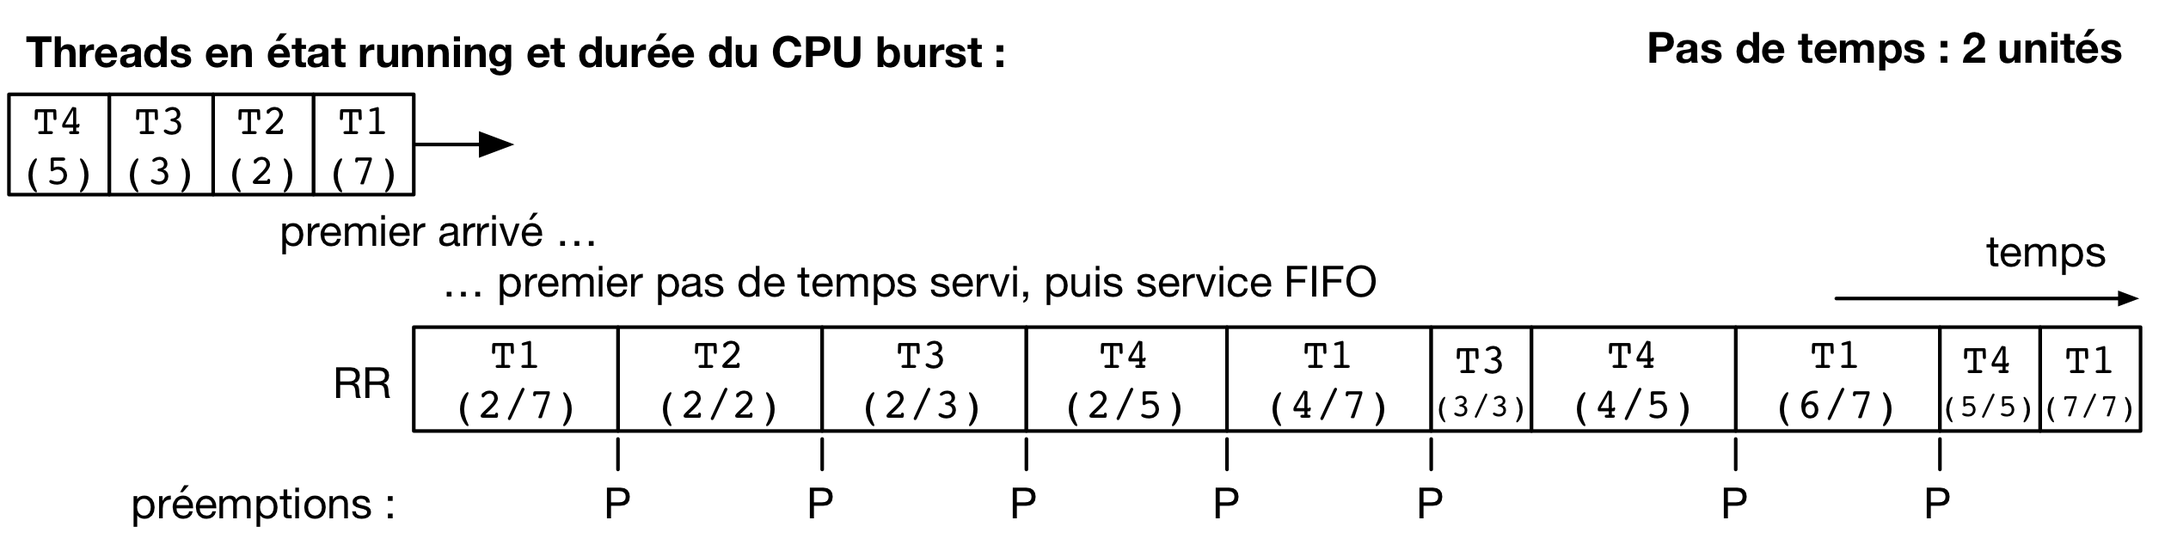
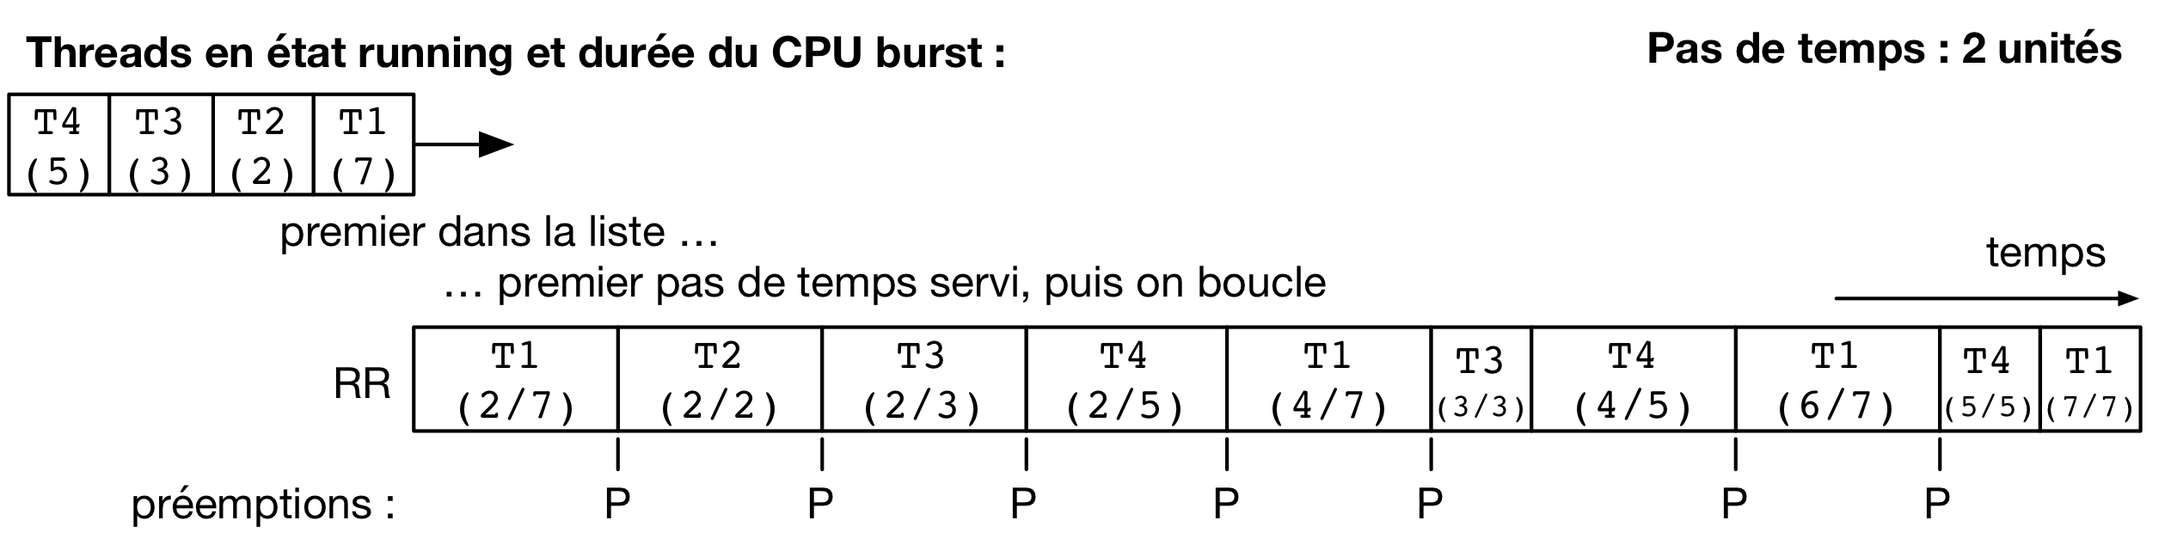
various fixes

Changed region(s): [[0.5251, 0.468, 0.6487, 0.5616], [0.1853, 0.4056, 0.3089, 0.468]]

diff --git a/Theorie/Ordonnancement/scheduling.rst b/Theorie/Ordonnancement/scheduling.rst
@@ -10,14 +10,14 @@ Ordonnancement (Scheduling)
 
 Nous avons vu dans le chapitre précédent qu'un système d'exploitation comme Linux pouvait supporter de nombreux threads (appartenant à divers processus) avec un nombre limité (ou même unique) de processeur(s).
 Un processeur n'exécute pourtant qu'un seul thread à la fois.
-Le partage des processeurs est rendu possible par un mécanisme *partage de temps* : le système d'exploitation peut basculer de l'utilisation d'un processeur par un thread a une utilisation par un autre thread.
-L'enchaînement rapide de l'exécution des différents threads sur les processeurs donne ainsi l'illusion à l'utilisateur que ceux-ci s'exécutent simultanément.
+Le partage des processeurs est rendu possible par un mécanisme de *partage de temps* : le système d'exploitation peut basculer de l'utilisation d'un processeur par un thread à une utilisation par un autre thread.
+L'enchaînement rapide de l'exécution des différents threads sur les processeurs donne l'illusion à l'utilisateur que ceux-ci s'exécutent simultanément.
 Le mécanisme permettant le partage de temps est le changement de contexte.
 Nous l'avons décrit dans les chapitres précédents.
 
 La mise en œuvre du partage de temps illustre bien le principe de séparation entre mécanisme et politique, un objectif important poursuivi lors de la conception d'UNIX et de Linux.
-Le *mécanisme* de changement de contexte permet en effet d'assurer la transition entre les threads sur un ou plusieurs processeur(s), mais il ne dit pas quel thread doit être privilégié pour obtenir un processeur, ou quand un thread utilisant un processeur doit le libérer pour un autre thread.
-Ces décisions sont du ressort de la *politique* d'ordonnancement (scheduler).
+Le *mécanisme* de changement de contexte permet en effet d'assurer la transition entre les threads sur un ou plusieurs processeur(s), mais il ne dit pas quel thread doit être privilégié pour obtenir un processeur, ou quand un thread utilisant un processeur doit le libérer pour laisser la place à un autre thread.
+Ces décisions sont du ressort de la *politique* d'ordonnancement ou **scheduler**.
 L'avantage de séparer les décisions sur l'accès aux processeurs pour les différents threads, du mécanisme permettant d'acter ces décisions, est sa grande flexibilité.
 Un même mécanisme peut être utilisé avec des politiques différentes sur des systèmes aussi dissemblables qu'un super-calculateur ou une montre connectée, pour prendre des exemples de systèmes utilisant le noyau Linux.
 
@@ -39,19 +39,19 @@ Ceci est illustré par la figure suivante.
     :scale: 20
 
 Dans cet exemple, une application de copie de fichier comme `cp(1)`_ effectue de nombreuses opérations d'entrée/sortie pour lire et écrire un fichier à copier en utilisant le système de fichiers, entremêlées de bursts CPU courts.
-Une application de calcul numérique présentera, au contraire, des bursts CPU très longs avec des entrée/sorties seulement au début et à la fin du calcul.
+Une application de calcul numérique présentera, au contraire, des bursts CPU très longs avec des entrée/sorties seulement au début et à la fin des calculs.
 
 Un application peut tout à fait être composée de plusieurs threads présentant des caractéristiques différentes.
 Par exemple, dans un jeu, le thread chargé de prendre en compte les commandes du joueur (à l'aide du clavier ou d'une manette) présentera souvent des bursts CPU courts et de longues périodes d'attente, tandis que le thread en charge de l'intelligence artificielle du jeu pourra avoir des bursts CPU périodiques mais de durée régulière.
 Enfin, le thread en charge de l'affichage pourrait utiliser des bursts CPU longs pour préparer la visualisation d'une scène suivie de son envoi au dispositif d'affichage.
 
-L'alternance entre les bursts CPU et les phases attentes est mise en œuvre par l'alternance de chaque thread entre différents états, permis par l'utilisation par le kernel de changements de contextes.
+L'alternance entre les bursts CPU et les phases d'attente est mise en œuvre par l'alternance de chaque thread entre différents états, permis par le mécanisme de changement de contexte.
 
-Etats des threads
-^^^^^^^^^^^^^^^^^
+Évolution de l'état des threads
+^^^^^^^^^^^^^^^^^^^^^^^^^^^^^^^
 
 Le kernel maintient des structures de données à propos de tous les threads actifs.
-Comme nous l'avons vu précédemment, un thread peut être dans un des trois états suivants :
+Comme nous l'avons vu précédemment, un thread peut être dans l'un des trois états suivants :
 
 - **Running** : ce thread est *en ce moment* en train d'utiliser un des processeurs pour exécuter des instructions ;
 - **Ready** : ce thread est *en attente* d'un processeur pour exécuter des instructions ;
@@ -67,19 +67,18 @@ Passage de l'état Running à l'état Blocked
 """"""""""""""""""""""""""""""""""""""""""
 
 Le passage de l'état Running à l'état Blocked advient lors de l'exécution d'un appel système bloquant appelé par le thread.
-Cet appel système bloquant peut être, par exemple, une demande d'entrée/sortie (écrire ou lire depuis le système de fichiers) ou un appel à une primitive de synchronisation comme par exemple ``lock()`` sur un mutex ou ``sem_wait()`` sur un sémaphore.
-
+Cet appel système bloquant peut être, par exemple, une demande d'entrée/sortie (écrire ou lire depuis le système de fichiers) ou un appel à une primitive de synchronisation comme par exemple `pthread_mutex_lock(3posix)`_ ou `sem_wait(3posix)`_.
 Les threads en état Blocked sont associés à une structure de donnée du noyau, qui joue le rôle de *salle d'attente*.
 Certaines de ces structures d'attente n'ont d'utilité que pour un seul thread, par exemple lorsque ce thread a demandé une lecture vers le système de fichiers.
 D'autres peuvent contenir plusieurs threads en attente.
-C'est le cas, par exemple, d'une structure d'attente pour un sémaphore S.
-Il peut y avoir effectivement plusieurs threads ayant appelé ``sem_wait()`` (T12, T4 et T10).
-Un appel à ``sem_post()`` va libérer l'un de ces threads, qui passera alors en état Ready.
+C'est le cas, par exemple, d'une structure d'attente pour un sémaphore.
+Il peut y avoir effectivement plusieurs threads ayant appelé `sem_wait(3posix)`_ (T12, T4 et T10).
+Un appel à `sem_post(3posix)`_ va libérer l'un de ces threads, qui passera alors en état Ready.
 
 .. note:: Pas de garantie d'ordre sur le passage de l'état Blocked à l'état Ready !
 
  De manière générale, on ne peut pas faire d'hypothèse sur l'ordre dans lequel les threads en attente dans une structure d'attente commune vont être sélectionné pour passer dans l'état Ready, lorsque la condition d'attente sera remplie.
- Par exemple, si plusieurs threads appelent ``sem_wait()`` sur le même sémaphore S dans un ordre donné, par exemple T12, puis T4, puis T10, il n'y a pas de garantie que lors des appels à ``sem_post()`` par d'autres threads ils passent en état Ready dans ce même ordre : le premier appel à ``sem_post()`` peut tout à fait passer T4 ou T10 en mode Ready avant T12.
+ Par exemple, si plusieurs threads appelent `sem_wait(3posix)`_ sur le même sémaphore S dans un ordre donné, par exemple T12, puis T4, puis T10, il n'y a pas de garantie que lors des appels à `sem_post(3posix)`_ par d'autres threads ceux-ci passent en état Ready dans ce même ordre : le premier appel à `sem_post(3posix)`_ peut tout à fait passer T4 ou T10 en mode Ready avant T12.
 
 Passage de l'état Running à l'état Ready
 """"""""""""""""""""""""""""""""""""""""
@@ -95,7 +94,7 @@ Par ailleurs, sans même considérer des boucles infinies, le temps d'occupation
 .. Il faut utiliser pour cela la fonction `pthread_yield(3)`_ qui utilise elle même l'appel système `sched_yield(2)`_.
 .. En pratique, un thread qui doit attendre la fin de l'exécution d'autres threads et donc leur permettre d'obtenir le processeur qu'il occupe utilisera plutôt l'appel `pthread_join(3)`_ (ou `sleep(3)`_ pour attendre une durée précise).
 
-Les systèmes comme Linux utilisent donc une source d'interruption matérielle périodique (une horloge) pour permettre de redonner le contrôle au système d'exploitation périodiquement.
+Les systèmes comme Linux utilisent donc une source d'interruption matérielle périodique (une horloge système) pour permettre de redonner le contrôle au système d'exploitation.
 À l'occasion de ces traitements d'interruption, il est possible de reprendre un processeur à un thread en état Running, en provoquant un changement de contexte.
 On dit alors que le thread a subit une **préemption**.
 C'est le cas de T15 sur notre exemple.
@@ -111,9 +110,9 @@ Mise en œuvre du scheduler
 La politique d'ordonnancement, que nous appellerons par la suite uniquement le *scheduler* par simplicité, est donc en charge de la prise de décision aux deux moments suivants :
 
 - (1) Lorsqu'un processeur devient disponible, suite au passage d'un thread en mode Blocked, le scheduler doit sélectionner un thread dans l'état Ready et le promouvoir à l'état Running sur ce processeur.
-- (2) Lorsqu'une interruption périodique est traité, le scheduler doit décider si un thread actuellement en état Running doit être pré-empté pour passer en état Ready.
+- (2) Lorsqu'une interruption périodique est traité, le scheduler doit décider si un thread actuellement en état Running doit être préempté pour passer en état Ready.
 
-Un scheduler qui prend des décisions pour les deux occasions (1) et (2) est dit préemptif (car il utilise la préemption d'un thread pour récupérer le processeur avant la fin du CPU burst).
+Un scheduler qui prend des décisions pour les deux occasions (1) et (2) est dit préemptif (car il utilise la préemption d'un thread pour récupérer le processeur avant la fin de son CPU burst).
 Un scheduler qui ne prend de décision que lors de l'occasion (1) est non-préemptif.
 Il dépend d'appels réguliers par les threads à des appels systèmes bloquants, mais les threads ont la garantie que leurs CPU burst ne seront pas interrompus.
 
@@ -121,14 +120,14 @@ Objectifs
 """""""""
 
 Il n'existe pas de scheduler parfait convenant à toutes les applications.
-Pour s'en convaincre, considérons les deux applications que sont la copie de fichier et l'application de calcul de notre exemple précédent.
+Pour s'en convaincre, considérons les deux applications que sont la copie de fichier et l'application de calcul dans notre exemple précédent.
 
-La priorité de l'application de copie de fichier est de subir le moins d'attente possible entre la disponibilité d'une valeur de retour d'un appel système vers le système de fichier, et l'envoi du prochain appel système pour continuer la copie, et éviter de ralentir l'opération de copie.
+La priorité de l'application de copie de fichier est de subir le moins d'attente possible entre la disponibilité d'une valeur de retour d'un appel système vers le système de fichier, et l'envoi du prochain appel système pour continuer la copie, et éviter de ralentir l'opération de copie dans son ensemble.
 Pour ce thread, le délai d'attente entre sa mise en état Ready et l'obtention d'un processeur doit être la plus faible possible.
 
 Pour l'application de calcul, le plus important est de pouvoir exécuter les instructions du long CPU burst avec le moins d'interruptions possibles.
-En effet, un changement de contexte est du temps perdu pour réaliser des opérations utiles (progresser dans la simulation).
-Par ailleurs, un thread qui est interrompu et replacé plus tard sur le processeur sera soumis à un phénomène de *cache froid* : les données qui étaient dans le cache, et donc accessibles rapidement avant le changement de contexte, ont pu être remplacées par des données utilisées par le thread qui a obtenu le processeur entre temps.
+En effet, un changement de contexte est du temps perdu pour réaliser des opérations utiles (i.e., progresser dans la simulation).
+Par ailleurs, un thread qui est interrompu et replacé plus tard sur le processeur sera soumis à un phénomène de *cache froid* : les données qui étaient dans le cache, et donc accessibles avec un temps d'accès faible avant le changement de contexte, ont pu être remplacées par des données à des adresses différentes, utilisées par le thread qui a obtenu le processeur entre temps.
 Peupler de nouveau le cache avec les données nécessaire au calcul peut nécessiter de coûteux accès en mémoire principale et ralentir l'exécution.
 
 Si l'on décide de privilégier l'application de copie, il est souhaitable d'interrompre le thread de l'application de calcul, mais cela va au détriment de ce dernier.
@@ -140,32 +139,34 @@ On peut définir cinq principaux critères pour mesurer la performance d'un sche
  - On veut pouvoir maximimiser l'utilisation du ou des processeur(s), c'est à dire la proportion du temps où ceux-ci exécutent des instructions des applications. Les opérations de changement de contexte ne sont évidemment pas considérées comme du travail utile pour ce critère.
  - On peut vouloir maximiser le débit applicatif, c'est à dire le nombre de processus qui peuvent terminer leur exécution en une unité de temps donné (par exemple en une heure).
 - D'autres critères sont applicables, cette fois-ci **du point de vue de chaque application** individuellement. On pourra par ailleurs s'intéresser à la distribution de ces métriques pour l'ensemble des applications, afin de savoir s'il existe un déséquilibre entre la métrique telle que perçue par une application et la même métrique perçue par une autre application :
- - Une application peut souhaiter minimiser son temps total d'exécution, entre la création du processus et sa terminaison. Ce critère n'est pas nécessairement valide pour tous les types d'applications, par exemple il n'a que peu de sens pour une application interactive (par exemple, un shell).
- - Enfin, une application peut souhaiter minimiser son temps d'attente moyen, c'est à dire le temps écoulé entre la mise en état Ready (par exemple après la fin d'une entrée/sortie) et l'obtention d'un processeur. Cette métrique est particulièrement importante pour les applications interactives, comme un jeu ou une interface utilisateur en mode graphique.
+ - Une application peut souhaiter minimiser son temps total d'exécution, entre la création du processus et sa terminaison. Ce critère n'est pas nécessairement valide pour tous les types d'applications, par exemple il n'a que peu de sens pour une application interactive (par exemple, un shell), mais il est important pour des applications de calcul ou l'exécution d'un script par exemple.
+ - Ensuite, une application peut souhaiter minimiser le temps d'attente moyen, c'est à dire le temps écoulé entre la mise en état Ready (par exemple après la fin d'une entrée/sortie) et l'obtention d'un processeur. Cette métrique est particulièrement importante pour les applications interactives, comme un jeu ou une interface graphique.
+ - Enfin, une application voudra minimiser son temps de réponse, qui correspond à la somme entre le temps d'attente et le temps nécessaire pour terminer l'exécution de son burst CPU.
 
 Nous allons dans la suite de ce chapitre décrire plusieurs scheduler classiques, en commençant par les scheduler non préemptifs, puis les schedulers préemptifs, et enfin les schedulers hybrides combinant plusieurs stratégies.
 
-**Note :** Nous considérerons pour la présentation des scheduler uniquement le cas d'un seul processeur pour la simplicité, mais les algorithmes présentés ici peuvent être aisément étendu pour fonctionner avec plusieurs processeurs.
+**Note :** Nous considérerons pour la présentation des schedulers uniquement le cas d'un seul processeur pour des raisons de simplicité, mais les algorithmes présentés ici peuvent être aisément étendu pour fonctionner avec plusieurs processeurs.
 
 Le scheduler FCFS (First-Come-First-Serve)
 """"""""""""""""""""""""""""""""""""""""""
 
 Une première approche est d'exécuter les CPU bursts des threads dans l'ordre exact dans lequel ils ont obtenu l'état Ready (premier arrivé, premier servi).
 Ce scheduler n'étant pas préemptif, chaque CPU burst s'exécute intégralement avant de libérer le processeur pour un autre thread.
-L'exemple ci-dessous montre deux exécutions possibles pour 4 threads disponibles en état Ready simultanément, mais pour lesquels l'ordre d'ajout en état Ready a été sérialisé de façon différente (T1, T2, T3, puis T4 dans un premier cas; et T2, T3, T4 puis T1 dans le deuxième cas).
+Le temps de réponse avec un scheduler non préemptif est toujours égal au temps d'attente plus la durée du burst CPU, donc nous nous intéresserons principalement à ce premier critère.
+
+L'exemple ci-dessous montre deux exécutions possibles pour 4 threads disponibles en état Ready simultanément, mais pour lesquels l'ordre d'ajout en état Ready a été effectué dans un ordre différent (T1, T2, T3, puis T4 dans un premier cas; et T2, T3, T4 puis T1 dans le deuxième cas).
 
  .. figure:: figures/scheduler_fcfs.png
     :align: center
     :scale: 20
 
 Ces figures présentent des diagrammes de Gantt, où le temps d'exécution de chaque CPU burst est représenté au cours du temps.
-En terme de débit applicatif et d'utilisation du processeur, cet algorithme est optimal, car il n'y a que trois changements de contexte.
-Le temps perdu est donc minimal.
+En terme de débit applicatif et d'utilisation du processeur, cet algorithme est optimal, car il n'y a que trois changements de contexte : le temps perdu pour ces changements de contexte est donc minimal.
 
 En revanche, si on considère le temps d'attente moyen pour chacun des threads, on observe que celui-ci diffère grandement entre le premier ordre d'arrivée et le second (de 7 unités de temps à 4.75 unités de temps).
 La raison est que dans la première configuration des CPU bursts courts (typiques des applications interactives ou utilisant de nombreuses entrées/sorties) se retrouvent *coincées* derrière un CPU burst long.
 Ce phénomène est appelé l'*effet convoi* (convoy effect en anglais).
-Il pénalise principalement les applications ayant des besoins d'interactivité, 
+Il pénalise principalement les applications ayant des besoins d'interactivité.
 
 Le scheduler SJF (Shortest Job First)
 """""""""""""""""""""""""""""""""""""
@@ -182,68 +183,142 @@ On peut facilement montrer que le temps d'attente *moyen* avec le scheduler SJF 
 Toutefois, cet algorithme n'est pas réalisable en pratique et ne peut donc servir que de mètre étalon pour analyser la performance d'autres algorithmes.
 Il n'est en effet pas possible de connaître à l'avance la durée d'un CPU burst, car celle-ci dépend de l'exécution du code du thread, et donc de ses boucles, conditionnelles, appels de fonctions, etc.
 
-En revanche, il est possible de tenter d'approcher cet algorithme en partant de l'observation suivante : la durée des CPU bursts pour un thread donné à tendance est souvent assez régulière dans le temps.
+En revanche, il est possible de tenter d'approcher cet algorithme en partant de l'observation suivante : la durée des CPU bursts pour un thread donné a souvent tendance à être régulière dans le temps.
 C'est à dire qu'un thread utilisant le CPU pour de courtes périodes de temps régulièrement aura souvent tendance à répéter ce comportement (c'est le cas, par exemple, des trois threads du jeu présenté précédemment).
-À l'inverse, un thread utilisant régulièrement le CPU pour de longues périodes de temps sera souvent (mais pas toujours) plus susceptible d'avoir un prochain CPU burst long lui aussi.
+À l'inverse, un thread utilisant régulièrement le CPU pour de longues périodes de temps sera souvent (mais pas toujours) plus susceptible d'avoir un prochain CPU burst qui sera long.
 
 Un scheduler estimant SJF pourrait ainsi conserver dans une structure de données la durée des *x* derniers CPU bursts de chaque thread.
 En appliquant une moyenne sur cette durée, le scheduler peut alors tenter de prédire la durée du prochain CPU burst, et choisir le thread dont la durée prédite est la plus courte.
 
 On note toutefois que, si SJF est optimal en terme de temps d'attente moyen, il n'offre que peu de propriétés d'équité.
-Si il existe de nombreux threads avec des CPU bursts à venir courts (ou prédits comme tels) alors un thread avec un CPU burst long (ou prédit comme tel) pourrait ne jamais avoir accès au processeur, ou bien y avoir accès bien plus tard.
+Si il existe de nombreux threads avec des CPU bursts à venir courts (ou prédits comme tels) alors un thread avec un CPU burst long (ou prédit comme tel) pourrait ne jamais avoir accès au processeur, ou bien n'y avoir accès que bien plus tard.
 
 Le scheduler préemptif RR (Round Robin)
-"""""""""""""""""""""""""""""
+"""""""""""""""""""""""""""""""""""""""
 
+Un scheduler préemptif peut choisir de *préempter* un thread en cours d'exécution sur un processeur, c'est à dire de passer ce thread en état Ready pour libérer le processeur pour un autre thread.
+Une décision de préemption peut être prise lorsque le système d'exploitation reprend la main sur le processeur lors de l'arrivée d'une interruption.
+Une horloge système dédiée à cet usage génère une interruption matérielle (tick) de manière périodique.
+
+Un premier scheduler préemptif est le scheduler RR (Round Robin), expression anglaise que l'on pourrait traduire en français par "chacun son tour" [#round_robin]_.
+Les threads en mode Ready sont placé dans un ordre arbitraire, sur laquelle on boucle (une fois la fin de cet ordre atteint, on recommence avec le premier thread, et ainsi de suite).
+À chaque tick d'horloge, le scheduler décide de systématiquement préempter le thread en cours d'exécution, sauf s'il n'existe aucun autre thread en état Ready.
+Le thread choisi pour passer en état Running est alors le suivant dans la liste.
+Celui-ci peut alors exécuter une fraction de son burst CPU avant d'être lui même préempté.
+La figure suivante illustre ce principe avec les mêmes threads que dans les exemples précédents, et avec un tick d'horloge toutes les deux unités de temps.
 
  .. figure:: figures/scheduler_rr.png
     :align: center
     :scale: 20
 
+On observe que le thread T1 n'exécute que deux unités de temps sur les 7 de son burst CPU avant d'être préempté pour laisser la place à T2, qui laisse la place à T3 et ainsi de suite.
+Le troisième accès du thread T3 au processeur permet à ce thread de terminer son burst par une opération bloquante.
+.. On suppose dans cet exemple que le système d'exploitation remet l'horloge à 0 suite à la fin du thread en cours (ce n'est pas obligatoire).
 
-Contenu :
-- Introduction et objectifs 
-- Rappels sur le principe de changement de contexte, au retour du SE
-- Rappels sur les états des processus (reprendre le même schéma)
-- Rappel sur la séparation politique et mécanisme
+Le scheduler RR permet à chaque thread d'accéder au processeur équitablement : même si un thread comme T1 ou T4 a un burst CPU long, les threads avec des bursts CPU courts comme T2 ou T3 auront accès au processeur de la même manière.
+En d'autres termes, le temps d'attente pour un thread sera toujours borné par le nombre de threads en état Ready multiplié par le durée du pas de temps.
 
-- Burst CPU et IO (+ figure et si possible mesure d'un vrai système ?)
-- Scheduler préemptif et non préemptif (en fonction du type d'interruption)
+On voit toutefois que ce scheduler n'est pas très efficace pour plusieurs raisons :
 
-- Critères pour un scheduler
-  - (max) utilisation CPU moyenne
-  - (max) throughput (débit logiciel), # de process qui terminent par unité de temps (e.g. heure)
-  - (min) turnaround time (temps pour exécuter un processus en particulier) -- et sa distribution
-  - (min) waiting time (temps d'attente en état ready d'un processus en particulier) -- et sa distribution
-  - (min) response time (amount of time it takes from when a request was submitted until the first response is produced (not output) - for time-sharing environments)
+- Premièrement, il génère un grand nombre de changements de contexte (7 dans notre exemple). Comme discuté précédemment, non seulement ces changements de contexte nécessitent du temps processeur qui n'est pas utilisé pour des opérations utiles, mais ils entrainent surtout un phénomène de cache froid à chaque redémarrage d'un thread sur le processus à la suite d'un autre ayant rempli le cache avec ses propres données.
+- Deuxièmement, comme le burst CPU d'un thread peut être interrompu avant sa complétion, il n'y a pas de relation directe entre le temps d'attente et le temps de réponse, et ce dernier peut devenir particulièrement long. Par exemple, bien que T3 ait un temps d'attente de 3 unités de temps, son temps de réponse (le temps entre son placement en état Ready et la fin de son burst CPU) est de 11 unités de temps.
+- Enfin, il n'y a pas de distinction entre les threads ayant besoin du processeur pour des bursts courts ou ceux ayant des bursts longs, ce qui peut conjointement réduire la réactivité des threads interactifs ou effectuant de nombreuses entrées/sorties et diminuer la performance de ceux réalisant des calculs.
 
-Non-preemptive:
-- Fist-come-first-serve scheduling
-  -> les threads sont exécutés dans l'ordre dans lesquels ils ont été ajoutés en mode Ready
-  -> ajouter un exemple
-  -> effet convoi
-- Shortest-job-first
-  -> optimalité
-  -> impossible
-  -> emulation en utilisant un historique (utilise dans des vrais systemes ?)
+.. note:: Quelle fréquence pour l'horloge système ?
 
-Preemptive:
-- Variants of the previous: 
-- Round-Robin
+ La fréquence de l'horloge système, qui génère les interruptions périodiques permettant au système d'exploitation de reprendre la main via la procédure de traitement d'interruption et (entre autres) de permettre au scheduler de préempter un processus en cours d'exécution, est un paramètre important pour la performance et la consommation d'énergie d'un système informatique.
+ La valeur idéale dépend non seulement de l'architecture utilisée (mono- versus multi-processeur, machine alimentée par batterie ou non, etc.), de la configuration du système d'exploitation, mais aussi du type d'applications envisagées (application de type serveur, de type calcul intensif, applications interactives comme des jeux ou du traitement multimédia, etc.).
+ 
+ Par exemple, les versions initiales de Linux utilisaient une fréquence d'horloge de 100 Hz (100 interruptions par seconde) tandis que des versions ultérieures permettaient une fréquence plus élevée de 1.000 Hz.
+ Une fréquence plus élevée permet de diminuer le temps d'attente moyen et augmente la réactivité du système.
+ Elle entraîne une utilisation processeur par le système plus élevée, ce qui est particulièrement problématique pour les systèmes embarqués ou pour les ordinateurs portables alimentés par une batterie.
+ Une fréquence élevée peut aussi augmenter le risque de pollution de caches dues aux préemptions plus important.
+ Les versions modernes de Linux peuvent adapter la fréquence de l'horloge pour ne pas constamment réveiller un processeur lorsqu'il n'y a pas de tâche en état Ready, ou bien ne pas interrompre une tâche en état Running sur un processeur s'il n'y a pas de tâche en état Ready en attente pour le remplacer.
 
-Priority scheduling
-- Starvation et solution
-- Example of Linux
-- Note: Utilisation de nice et renice
+Schedulers à priorité
+"""""""""""""""""""""
 
-Autres algorithmes
-- Queue multi-niveau sans et avec feedback
+Dans un même système informatique, plusieurs applications cohabitent et toutes n'ont pas nécessairement la même priorité d'accès aux ressources.
+Par exemple, lors de l'utilisation d'une interface utilisateur en mode graphique, l'application actuellement utilisée par l'utilisateur local (par exemple un navigateur web) peut avoir besoin pour assurer une bonne réactivité d'accéder plus rapidement au processeur afin de limiter ses temps de réponses.
+À l'inverse, une opération de maintenance utilisée par le système d'exploitation, comme la mise à jour d'une base de données des fichiers pour permettre la recherche rapide par la suite, peut se contenter d'accéder au processeur uniquement lorsque celui-ci n'est pas sollicité par d'autres applications.
 
+Un scheduler à priorité alloue à chaque thread un niveau de priorité donné.
+Lorsque le scheduler doit sélectionner un thread à exécuter, il commence d'abord par parcourir les threads ayant une haute priorité. 
+En pratique, un scheduler à priorité maintiendra une liste circulaire pour chaque niveau de priorité.
+Lorsque le scheduler est appelé, il sélectionnera toujours le thread ayant la plus haute priorité et se trouvant dans l'état `Ready`.
+Si plusieurs threads ont le même niveau de priorité, un scheduler de type :term:`round-robin` peut être utilisé dans chaque niveau de priorité.
+Il faut toutefois faire attention au problème de **famine** : si il existe toujours des threads de plus haute priorité qu'un thread donné, ce dernier pourrait ne jamais obtenir l'accès au processeur.
+Une solution simple à ce problème est de considérer une priorité de base, et une priorité courante.
+Au démarrage d'un cycle, les threads reçoivent leur priorité de base. Lorsqu'ils obtiennent l'accès au processeur, leur priorité courante décroit.
+Ceci donne une opportunité aux threads de priorité de base plus faible de s'exécuter.
+Un nouveau cycle commence lorsque tous les threads en état Ready ou Running ont atteint une priorité courante de 0. 
 
+On peut combiner le principe de priorité avec celui de préemption.
+Un thread qui passe dans l'état Running obtient alors un crédit de temps, ou quantum.
+Lors de l'allocation d'un processeur à un thread, le kernel démarre une temporisation avec ce quantum, correspondant à un certain nombre de clicks de l'horloge système (la longueur du quantum doit donc être un multiple de la période de cette horloge).
+Si un burst CPU atteint la fin de son quantum avant de réaliser une opération bloquante, celui-ci est préempté.
 
+Les systèmes UNIX utilisent souvent des schedulers à priorité dynamique avec un round-robin à chaque niveau de priorité, en ajoutant par ailleurs des mécanismes adaptant la priorité de base des threads pour favoriser les threads interactifs.
+Par exemple, un thread qui termine toujours ses quantum de temps en étant préempté est considéré comme intensif en processeur (*CPU-intensive*).
+Il se verra allouer une priorité de base plus grande, mais avec un quantum de temps plus long.
+En revanche, un thread qui termine toujours ses bursts CPU avant la fin des quantum alloués est considéré comme intensive en entrées/sorties (*interactive*).
+Ce thread pourra obtenir une priorité de base plus élevé, mais associée à un quantum de temps plus court.
+
+.. note:: Scheduler à priorité et synchronisation des threads
+
+ L'utilisation des primitives de synchronisation comme les mutex peut aller à l'encontre des priorités utilisées par le scheduler.
+ Considérons par exemple le cas de deux threads TA et TB.
+ TA doit répondre à des requêtes reçues depuis le réseau en mettant à jour une structure de données partagée, par exemple un graphe.
+ Cette opération doit terminer le plus rapidement possible et ce thread est donc assigné à une priorité élevée.
+ TB parcours de façon périodique la structure de données commune afin d'en extraire des statistiques (par exemple, toutes les 30 secondes).
+ TB n'a pas de contrainte forte sur son temps de réponse mais l'opération qu'il exécute peut être assez longue.
+ On assigne donc une priorité faible à TB.
+ TA et TB accèdent à la structure de donnée en exclusion mutuelle, en utilisant un mutex *m*.
+ On peut alors rencontrer la situation suivante :
+ TB verrouille le mutex *m* en appelant `pthread_mutex_lock(3posix)`_ et commence son opération de parcours de la structure de données.
+ TA passe alors de l'état Blocked à Ready à l'occasion de la réception d'une requête depuis le réseau.
+ Le scheduler peut alors décider de préempter TB pour donner le processeur à TA, de plus grande priorité.
+ Celui-ci va alors appeler `pthread_mutex_lock(3posix)`_, et être placé dans la file d'attente pour le mutex *m*.
+ Si une attente active est utilisée, la situation est encore pire : le thread TA va alors boucler pour rien en attendant que son quantum de temps soit écoulé et que TB puisse récupérer un processeur pour terminer sa section critique.
+ Cette situation où un thread de priorité élevé est bloqué en attente d'un thread de priorité faible pour accéder à une ressource exclusive comme un mutex est appelé une **inversion de priorité**.
+ Une solution à ce problème est que lorsqu'un thread obtient un mutex sa priorité soit automatiquement augmentée pendant le temps d'utilisation de ce mutex, limitant ainsi les risques de préemption au milieu de la section critique.
+ Une telle priorité dite *plafond* (priority ceiling) est associée à un mutex en utilisant l'appel `pthread_mutexattr_setprioceiling(3posix)`_.
+ Cette priorité doit être la priorité maximale accessible aux threads du processus courant, qui peut être obtenue avec l'appel `sched_get_priority_max(3posix)`_.
+
+Influencer la priorité des processus sous Linux
+^^^^^^^^^^^^^^^^^^^^^^^^^^^^^^^^^^^^^^^^^^^^^^^
+
+Les processus créés sous un système Linux ont une priorité qui s'applique par défaut à l'ensemble de leurs threads.
+La priorité originelle d'un processus dépend de la configuration du système et des droits du processus appelant l'appel système `fork(2)`_.
+
+Il est possible d'influer sur la priorité d'un processus en utilisant la commande `nice(1)`_ ou la fonction `nice(2)`_ définie dans `unistd.h`.
+La commande `nice(1)`_ prend deux paramètres : un modificateur de priorité allant de +20 à -19, et la commande à exécuter.
+Une valeur élevée du modificateur (0 à +20) indique une priorité de plus en plus faible (la priorité avec +20 est la plus faible possible).
+On peut voir la valeur de nice comme une mesure de *politesse*, qui indique à quel point les threads de ce processus vont accepter de laisser passer les threads des autres processus devant eux pour l'accès au(x) processeur(s).
+Tout utilisateur peut utiliser une valeur de nice positive, car cela revient à réduire la facilité d'accès au processeur et non à s'octroyer des ressources supplémentaires.
+Une valeur négative (de -1 à -19) permet d'augmenter la priorité du processus.
+Leur utilisation nécessite en général des droits spécifiques, dits de super-utilisateur, afin d'éviter que des utilisateurs allouent systématiquement une priorité élevée à leurs programmes dans un environnement partagé, au détriment des autres utilisateurs.
+
+L'exemple suivant montre le démarrage du programme `ls(1)`_ tout d'abord avec une valeur de nice de 15 (priorité faible) puis l'essai d'utilisation d'une valeur négative (priorité élevée) dont on voit qu'il est refusé par la commande pour cause de droits insuffisants.
+
+.. code-block:: console
+  
+  utilisateur@systeme:~$ nice -15 ls -la .bash*
+  -rw------- 1 utilisateur groupe   64 Nov 16 21:33 .bash_history
+  -rw-r--r-- 1 utilisateur groupe  220 Jun  6  2018 .bash_logout
+  -rw-r--r-- 1 utilisateur groupe 3536 Oct 24 15:02 .bashrc
+  
+  utilisateur@systeme:~$ nice --15 ls -la .bash*
+  nice: cannot set niceness: Permission denied
+  -rw------- 1 utilisateur groupe   64 Nov 16 21:33 .bash_history
+  -rw-r--r-- 1 utilisateur groupe  220 Jun  6  2018 .bash_logout
+  -rw-r--r-- 1 utilisateur groupe 3536 Oct 24 15:02 .bashrc
 
 .. Un premier scheduler simple est le :term:`round-robin`. Ce scheduler maintient en permanence une liste circulaire de l'ensemble des threads qui se trouvent dans l'état `Ready` et un pointeur vers l'élément courant de cette liste. Lorsqu'un processeur devient disponible, le scheduler sélectionne le thread référencé par ce pointeur. Ce thread passe dans l'état `Running`, est retiré de la liste et le pointeur est déplacé vers l'élément suivant dans la liste. Pour éviter qu'un thread ne puisse monopoliser éternellement un processeur, un scheduler :term:`round-robin` limite généralement le temps qu'un thread peut passer dans l'état `Running`. Lorsqu'un thread a utilisé un processeur pendant ce temps, le scheduler vérifie si il y a un thread en attente dans l'état `Ready`. Si c'est le cas, le scheduler force un changement de contexte, place le thread courant dans l'état `Ready` et le remet dans la liste circulaire tout en permettant à un nouveau thread de passer dans l'état `Running` pour s'exécuter. Lorsqu'un thread revient dans l'état `Ready`, soit parce qu'il vient d'être créé ou parce qu'il vient de quitter l'état `Blocked`, il est placé dans la liste afin de pouvoir être sélectionné par le scheduler. Un scheduler :term:`round-robin` est équitable. Avec un tel scheduler, si `N` threads sont actifs en permanence, chacun recevra :math:`\frac{1}{N}` de temps CPU disponible.
 ..
 .. Un second type de scheduler simple est le scheduler à priorités. Une priorité est associée à chaque thread. Lorsque le scheduler doit sélectionner un thread à exécuter, il commence d'abord par parcourir les threads ayant une haute priorité. En pratique, un scheduler à priorité maintiendra une liste circulaire pour chaque niveau de priorité. Lorsque le scheduler est appelé, il sélectionnera toujours le thread ayant la plus haute priorité et se trouvant dans l'état `Ready`. Si plusieurs threads ont le même niveau de priorité, un scheduler de type :term:`round-robin` peut être utilisé dans chaque niveau de priorité. Il faut toutefois faire attention au problème de **famine** : si il existe toujours des threads de plus haute priorité qu'un thread donné, ce dernier pourrait ne jamais obtenir l'accès au processeur. Une solution simple à ce problème est de considérer une priorité de base, et une priorité courante. Au démarrage d'un cycle, les threads reçoivent leur priorité de base. Lorsqu'ils obtiennent l'accès au processeur, leur priorité courante décroit. Ceci donne une opportunité aux threads de priorité de base plus faible de s'exécuter. Un nouveau cycle commence lorsque tous les threads ont atteint une priorité courante de 0. Sous Unix, le scheduler utilise un scheduler à priorité dynamique avec un round-robin à chaque niveau de priorité, en ajoutant par ailleurs des mécanismes adaptant la priorité de base des threads pour favoriser les threads interactifs.
 
 .. Sous Unix, le scheduler utilise des niveaux de priorité qui varient en fonction des opérations d'entrées sorties effectuées. Cela a comme conséquence de favoriser les threads qui effectuent des opérations d'entrées sorties par rapport aux threads qui effectuent uniquement du calcul.
+
+
+.. [#round_robin] L'expression Round-Robin a une origine intéressante : elle est un idiotisme de l'expression française "Ruban Rond" dont vous pouvez lire l'histoire sur `Wikipedia <https://fr.wikipedia.org/wiki/Round-robin>`_.

diff --git a/Theorie/OS_design/os_structure.rst b/Theorie/OS_design/os_structure.rst
@@ -402,7 +402,7 @@ Mac OS ainsi qu'iOS d'Apple sont des systèmes hybrides, combinant des fonctionn
  Certaines études [Chou2001]_ [Palix2011]_ montrent ainsi que certains bugs ne sont corrigés que plusieurs années après leur première identification !
  
  L'utilisation d'un micro-noyau peut réduire drastiquement la quantité de lignes de code à analyser et à débogguer, mais cela n'est pas toujours suffisant.
- Récemment, des concepteurs de systèmes d'exploitation spécialisés pour les applications critiques ont entrepris de certifier de façon formelle la qualité des leurs systèmes.
+ Récemment, des concepteurs de systèmes d'exploitation spécialisés pour les applications critiques ont entrepris de certifier de façon formelle la qualité de leurs systèmes.
  Ce processus nécessite de spécifier les fonctionnalités du système d'exploitation, comme par exemple la totale isolation entre les espaces mémoires accessibles au différents processus, à l'aide d'un formalisme mathématique.
  Des logiciels spécialisés permettent ensuite de valider une mise en œuvre (en C) du système d'exploitation par rapport à cette spécification formelle de haut niveau.
  Cette opération est très complexe et coûteuse en ressources de calcul.

diff --git a/Theorie/Threads/spinlocks.rst b/Theorie/Threads/spinlocks.rst
@@ -279,8 +279,8 @@ Le code ci-dessous représente l'algorithme suivi par le thread *i*.
      victim[L] = i;
      // Attendre tant qu'il existe au moins un thread au même niveau ou à un niveau supérieur, 
      // et que le thread i est la victime du niveau où il se trouve
-     int t_niv_sup_egal = 0;
      do {
+       int t_niv_sup_egal = 0;
        for (int j=0; j< N; j++) {
          // parcours du tableau des niveaux pour déterminer si un thread 
          // est au même niveau ou à un niveau supérieur
